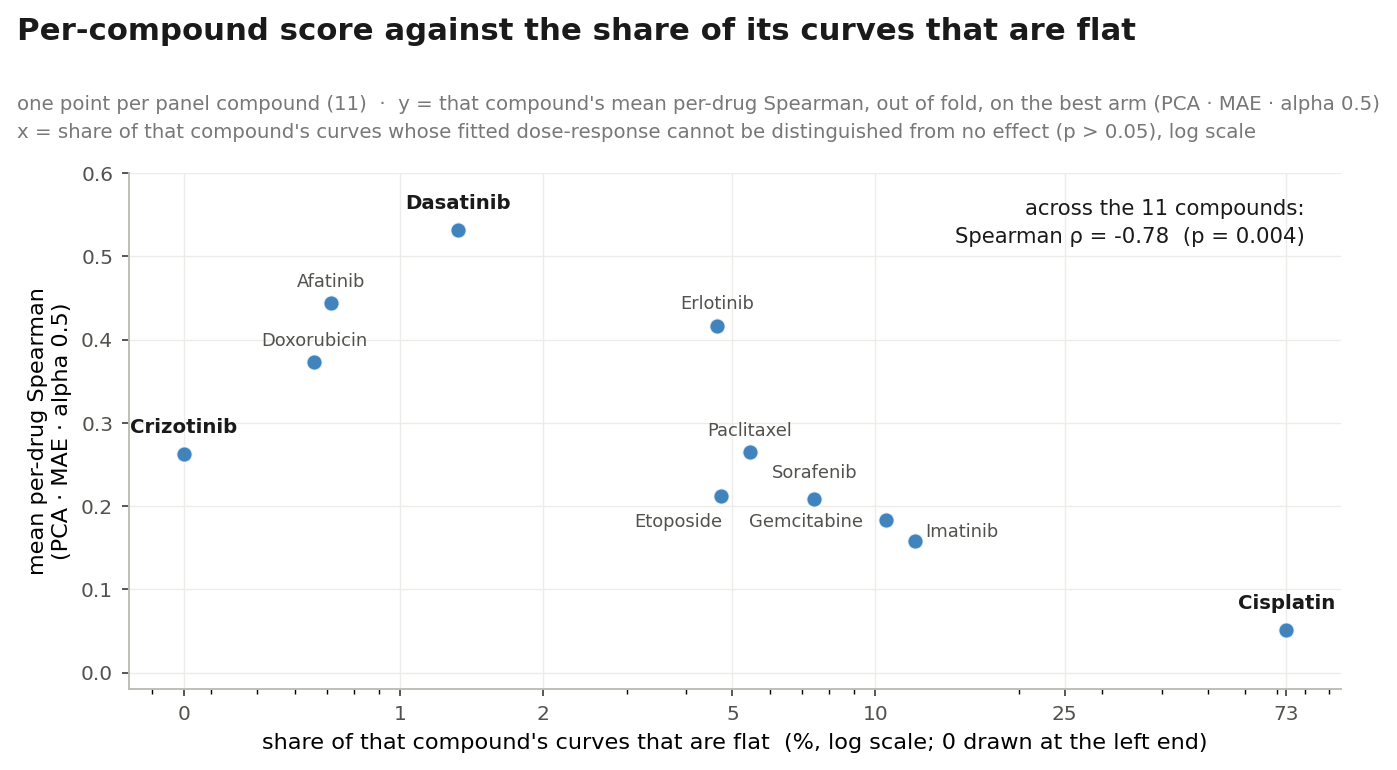
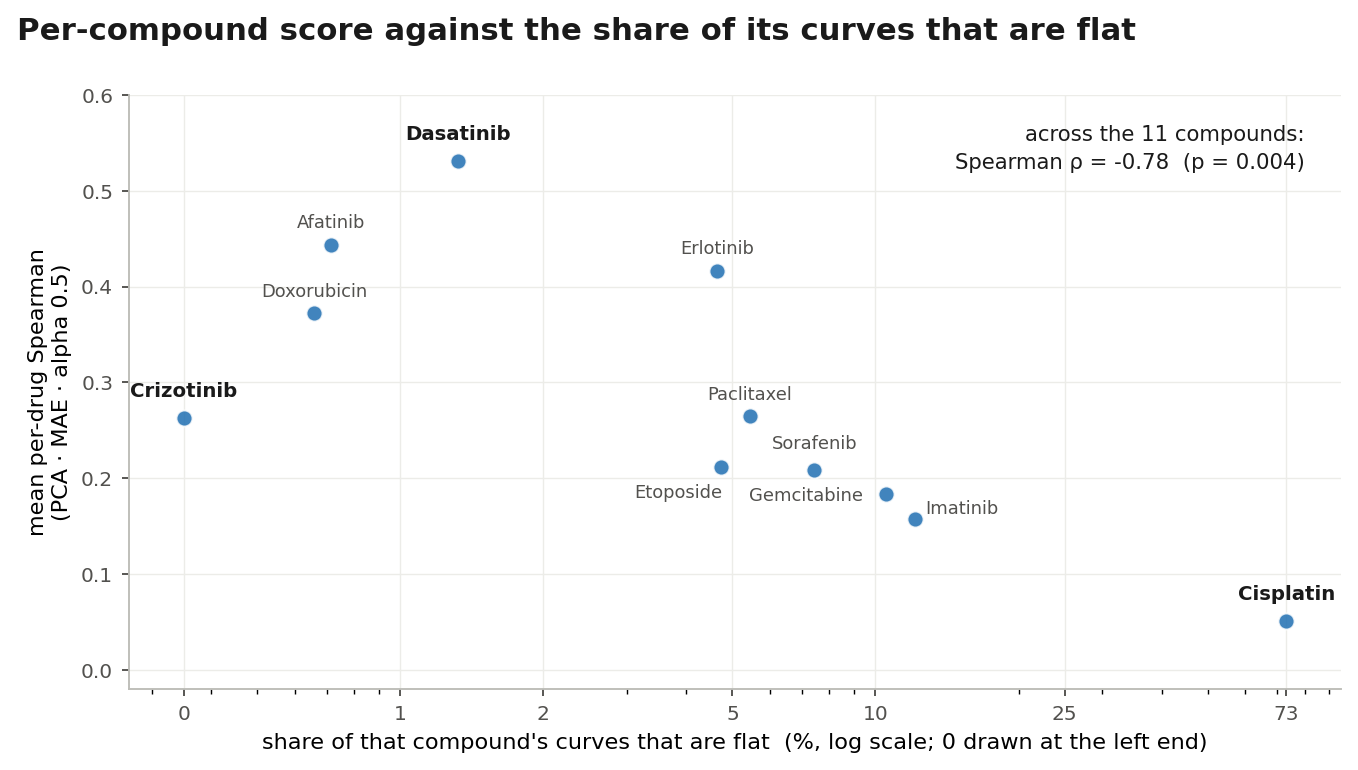
report: improved figures

diff --git a/docs/make_figures.py b/docs/make_figures.py
@@ -617,7 +617,7 @@ def draw_architecture(ax, *, compact: bool = False):
     # lines, and back to 14 once the paragraph moved to Methods the same day -- the note is now the
     # only thing below the legends and sits where the paragraph began. Compact is untouched: it is
     # embedded in pipeline.png, which has its own layout, and it draws neither note.
-    ax.set_xlim(0, 62 if compact else 100); ax.set_ylim(23 if compact else 14, 47 if compact else 52)
+    ax.set_xlim(0, 62 if compact else 100); ax.set_ylim(23 if compact else 20.5, 47 if compact else 52)  # bottom 14 -> 20.5 on 22.10.2026, after the grey notes went
     ax.set_aspect("equal"); ax.axis("off")
 
 
@@ -687,10 +687,7 @@ def draw_architecture(ax, *, compact: bool = False):
         ax.text(43.2, 22.6, "hidden block  =  linear layer → layer normalisation → GELU → dropout 0.5      ·      "
                             "input dropout 0.1      ·      AdamW, early stopping (patience 10)",
                 ha="center", va="top", fontsize=8.2, color=INK)
-        ax.text(43.2, 19.8, f"the {len(PANEL)} heads are the {len(PANEL)} rows of one "
-                            f"linear layer (64 → {len(PANEL)}) over a shared trunk — "
-                            "there is no per-drug sub-network",
-                ha="center", va="top", fontsize=8.2, color=GREY, style="italic")
+        # Grey note on the heads removed 22.10.2026 (Selin): the report caption says it.
 
     # ---------- OUTPUT: predicted raw AUC per drug ----------
     amax = 1.15                                # AUC 0 .. 1.15 maps to x0 .. x0+span
@@ -719,10 +716,7 @@ def draw_architecture(ax, *, compact: bool = False):
                 ha="center", va="top", fontsize=6.6, color=GREY)
         return
 
-    ax.text(x0 - 4.5, 19.6, f"bars: out-of-fold prediction for {EXAMPLE_LINE.split('_', 1)[0]} "
-                           f"({EXAMPLE_LINE.split('_', 1)[1].lower()})\n"
-                            "◆ = the measured CTRPv2 value (never seen in training)",
-            ha="left", va="top", fontsize=7.6, color=GREY)
+    # Grey bar/diamond note removed 22.10.2026 (Selin): the report caption says it.
 
     # Two corrections, 12.08.2026. The retired auc_z target is no longer named -- the point stands
     # on its own, and Methods no longer describes that target at all. And "the output layer is
@@ -788,7 +782,7 @@ def draw_architecture(ax, *, compact: bool = False):
 def build_architecture():
     if _needs_data("model_architecture.png") or _example_matches_panel("model_architecture.png"):
         return
-    fig, ax = plt.subplots(figsize=(17.0, 6.6))
+    fig, ax = plt.subplots(figsize=(17.0, 5.47))  # 6.6 until 22.10.2026; height scaled with the y-range
     draw_architecture(ax)
     out = FIG / "model_architecture.png"
     fig.savefig(out, dpi=170, bbox_inches="tight", facecolor="white")
@@ -971,8 +965,7 @@ def build_pipeline_flow():
     bg = fig.add_axes([0, 0, 1, 1]); bg.set_xlim(0, 100); bg.set_ylim(0, 100); bg.axis("off")
     bg.text(1.5, 99.0, "OncoTox — the pipeline", ha="left", va="top",
             fontsize=17, fontweight="bold", color=INK)
-    bg.text(1.5, 94.0, "one cell in, one AUC per drug out  ·  everything grouped by cell line",
-            ha="left", va="top", fontsize=9.5, color=GREY)
+    # Subtitle removed 22.10.2026 (Selin): the report caption carries this information.
 
     ROW1_TITLE, ROW1_CAP = 86.5, 58.5
     ROW2_TITLE, ROW2_CAP = 46.0, 8.5
@@ -980,8 +973,8 @@ def build_pipeline_flow():
     def stage(x, y, n, title, caption, cap_y):
         bg.text(x, y, f"{n}", ha="left", va="bottom", fontsize=12, fontweight="bold", color="#c3c3bd")
         bg.text(x + 2.4, y, title, ha="left", va="bottom", fontsize=10.5, fontweight="bold", color=INK)
-        if caption:
-            bg.text(x, cap_y, caption, ha="left", va="top", fontsize=8.2, color=MUTED)
+        # Grey per-stage captions no longer drawn (22.10.2026, Selin): the report caption describes
+        # each stage. The strings stay in the calls below as the record of what each stage shows.
 
     # ================================================== 1 · data
     stage(1.5, ROW1_TITLE, "1", "Data",
@@ -1855,7 +1848,7 @@ def build_panel_response():
     order = sorted(range(len(panel)),
                    key=lambda k: np.nanpercentile(auc[:, k], 75) - np.nanpercentile(auc[:, k], 25))
     fig, ax = plt.subplots(figsize=(8.6, 4.8))
-    fig.subplots_adjust(top=0.86, left=0.24)
+    fig.subplots_adjust(top=0.91, left=0.24)
     fig.suptitle("Response (refitted AUC) across cell lines, per panel compound",
                  x=0.02, ha="left", fontsize=13, fontweight="bold", color=INK, y=1.0)
     # One line, and only what cannot be inferred from the plot: n, the whisker convention (5-95 is
@@ -1866,11 +1859,7 @@ def build_panel_response():
     # asked what they meant). The percentile form is no longer and strictly more precise -- the
     # jargon does not say *which* whisker convention, which is the one thing here that is
     # non-default -- and the presenter should not have to define a term to answer a question.
-    fig.text(0.02, 0.905,
-             f"{int(np.isfinite(auc).any(1).sum())} train+val cell lines  ·  "
-             "box = 25th–75th percentile, line = median, whiskers = 5th–95th  ·  "
-             "ordered by box width",
-             ha="left", va="top", fontsize=8.6, color=GREY)
+    # Subtitle removed 22.10.2026 (Selin): the report caption carries this information.
 
     rng = np.random.default_rng(0)                # jitter only, never the values
     for row, k in enumerate(order):
@@ -1938,17 +1927,12 @@ def build_label_quality():
     x = j.frac_ns * 100
 
     fig, ax = plt.subplots(figsize=(8.2, 4.6))
-    fig.subplots_adjust(top=0.80, left=0.10, right=0.97, bottom=0.14)
+    fig.subplots_adjust(top=0.90, left=0.10, right=0.97, bottom=0.14)
     fig.suptitle("Per-compound score against the share of its curves that are flat",
                  x=0.02, ha="left", fontsize=13, fontweight="bold", color=INK, y=1.0)
     # The arm is named on the figure, not only in this docstring: the deck's own rule is that no
     # score is quoted without its arm, and "mean per-drug Spearman" alone names none.
-    fig.text(0.02, 0.90,
-             f"one point per panel compound ({len(j)})  ·  y = that compound's mean per-drug "
-             "Spearman, out of fold, on the best arm (PCA · MAE · alpha 0.5)\n"
-             "x = share of that compound's curves whose fitted dose-response cannot be "
-             "distinguished from no effect (p > 0.05), log scale",
-             ha="left", va="top", fontsize=8.4, color=GREY, linespacing=1.6)
+    # Subtitle removed 22.10.2026 (Selin): the report caption carries this information.
 
     ax.scatter(np.clip(x, 0.35, None), j.rho, s=46, color=BLUE, alpha=0.85, zorder=3,
                edgecolor="white", linewidth=0.8)
@@ -2051,14 +2035,10 @@ def build_lpo_bias():
         raise SystemExit(f"bars are not commensurable: {sub[['n', 'k']].to_dict()}")
 
     fig, ax = plt.subplots(figsize=(7.8, 2.9))
-    fig.subplots_adjust(top=0.72, left=0.27, right=0.97, bottom=0.24)
+    fig.subplots_adjust(top=0.84, left=0.27, right=0.97, bottom=0.24)
     fig.suptitle("Mean per-drug Spearman under DrEval leave-pairs-out",
                  x=0.02, ha="left", fontsize=13, fontweight="bold", color=INK, y=1.02)
-    fig.text(0.02, 0.88,
-             f"predictors using no expression at all  ·  5 folds, {int(g['n'].iloc[0] / 5):,} "
-             f"held-out pairs per fold, all {n_panel} compounds  ·  whiskers = sd over folds\n"
-             "not directly comparable with this project's leave-cell-line-out numbers",
-             ha="left", va="top", fontsize=8.4, color=GREY, linespacing=1.6)
+    # Subtitle removed 22.10.2026 (Selin): the report caption carries this information.
 
     for i, (key, label, colour) in enumerate(BARS):
         y = len(BARS) - 1 - i

diff --git a/report/sections/04_results_and_discussion.tex b/report/sections/04_results_and_discussion.tex
@@ -136,7 +136,7 @@ Under LPO, predicting each line's mean response reached a mean within-compound c
 correlation of two DrEval baselines under LPO evaluation, in which held-out (line, compound) pairs
 belong to lines seen in training: predicting each line's mean response (black, ``which cell line it
 is'') and each lineage's mean response (grey, ``lineage only''). Neither uses expression. Scores come
-from five folds of about 327 held-out pairs over the \NPanel{} compounds, and the whiskers show the SD
+from five folds of 327 held-out pairs each over the \NPanel{} compounds, and the whiskers show the SD
 over folds. LPO scores are not directly comparable with the LCO scores of Table~\ref{tab:sweep}: the
 held-out pairs belong to lines seen in training, and each compound is scored per fold rather than
 pooled across folds.
